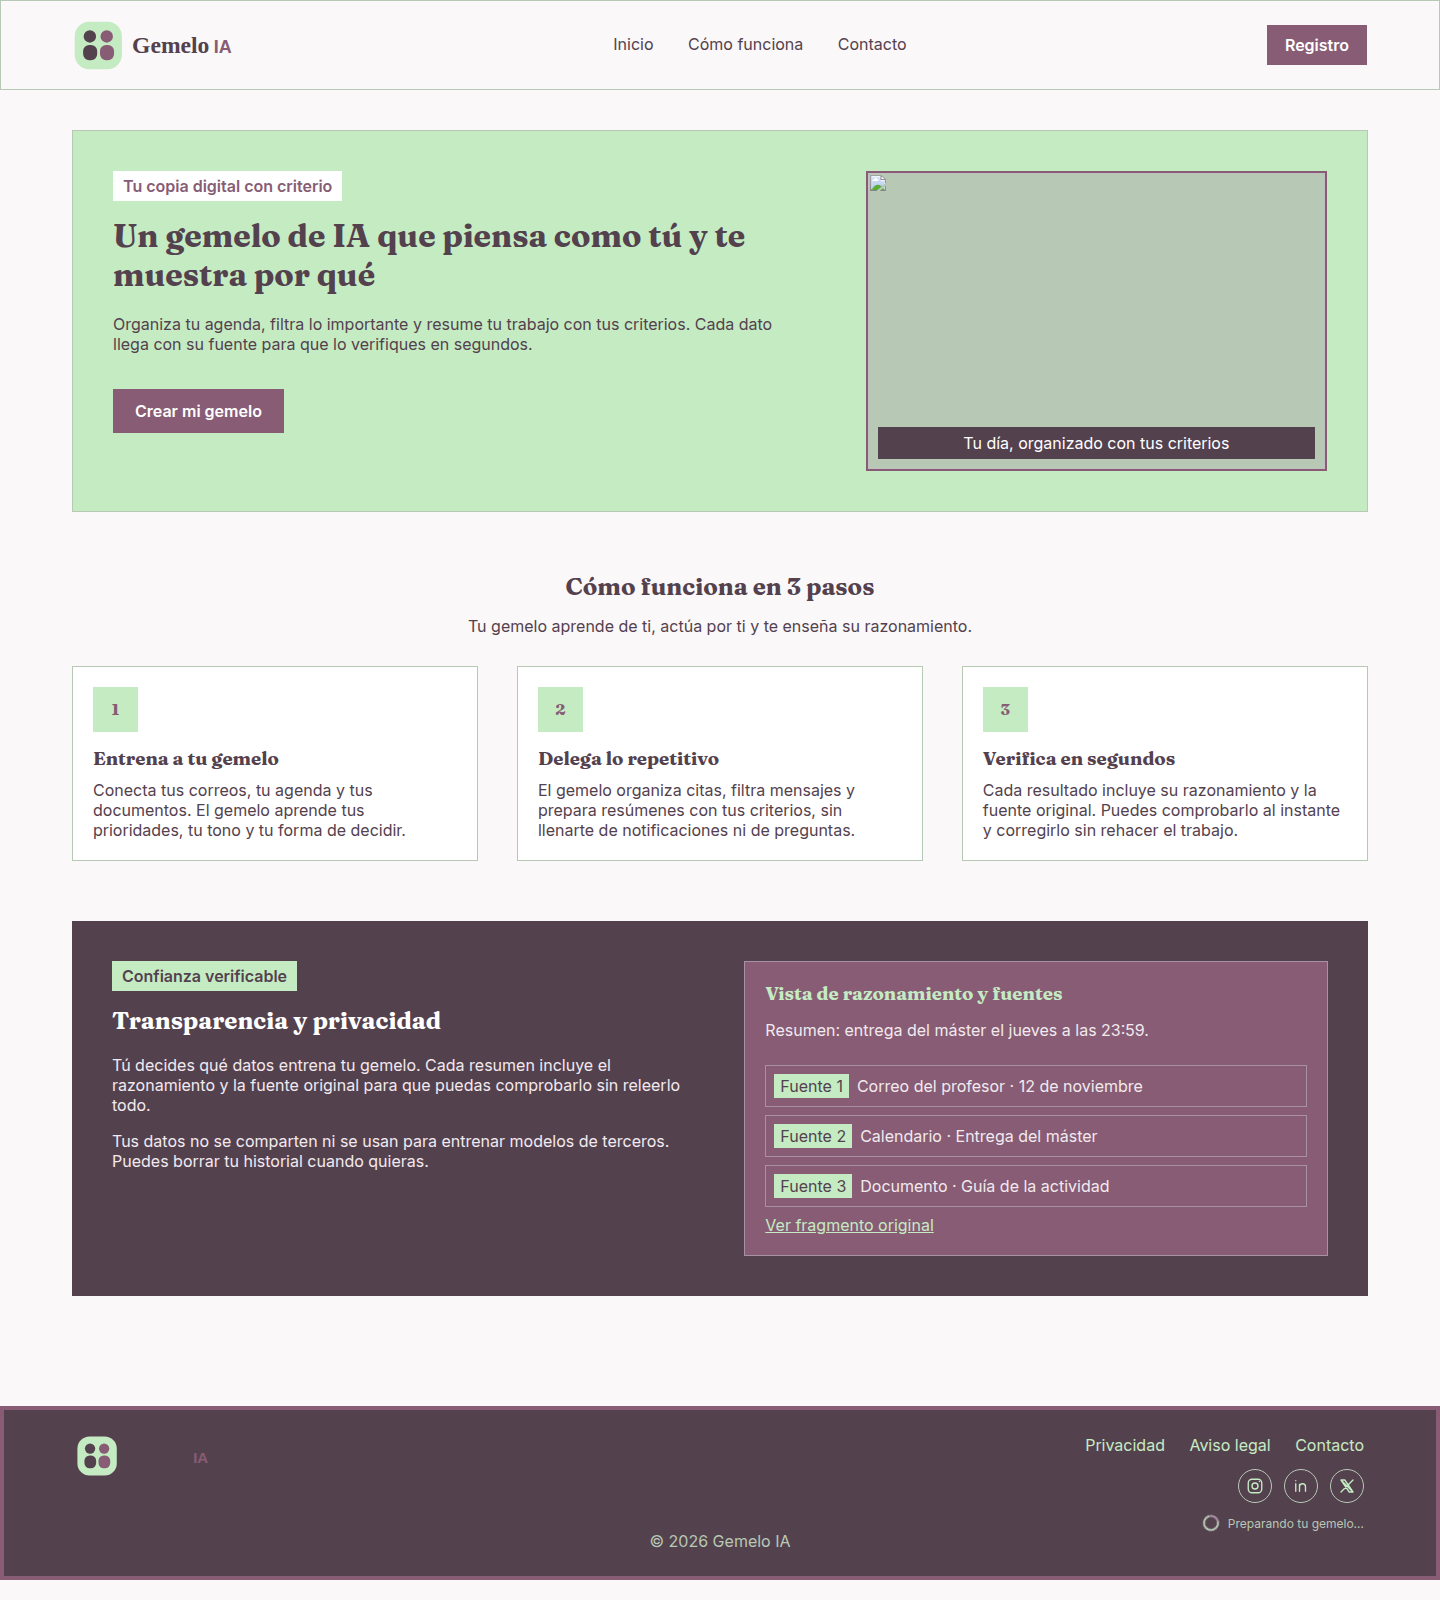
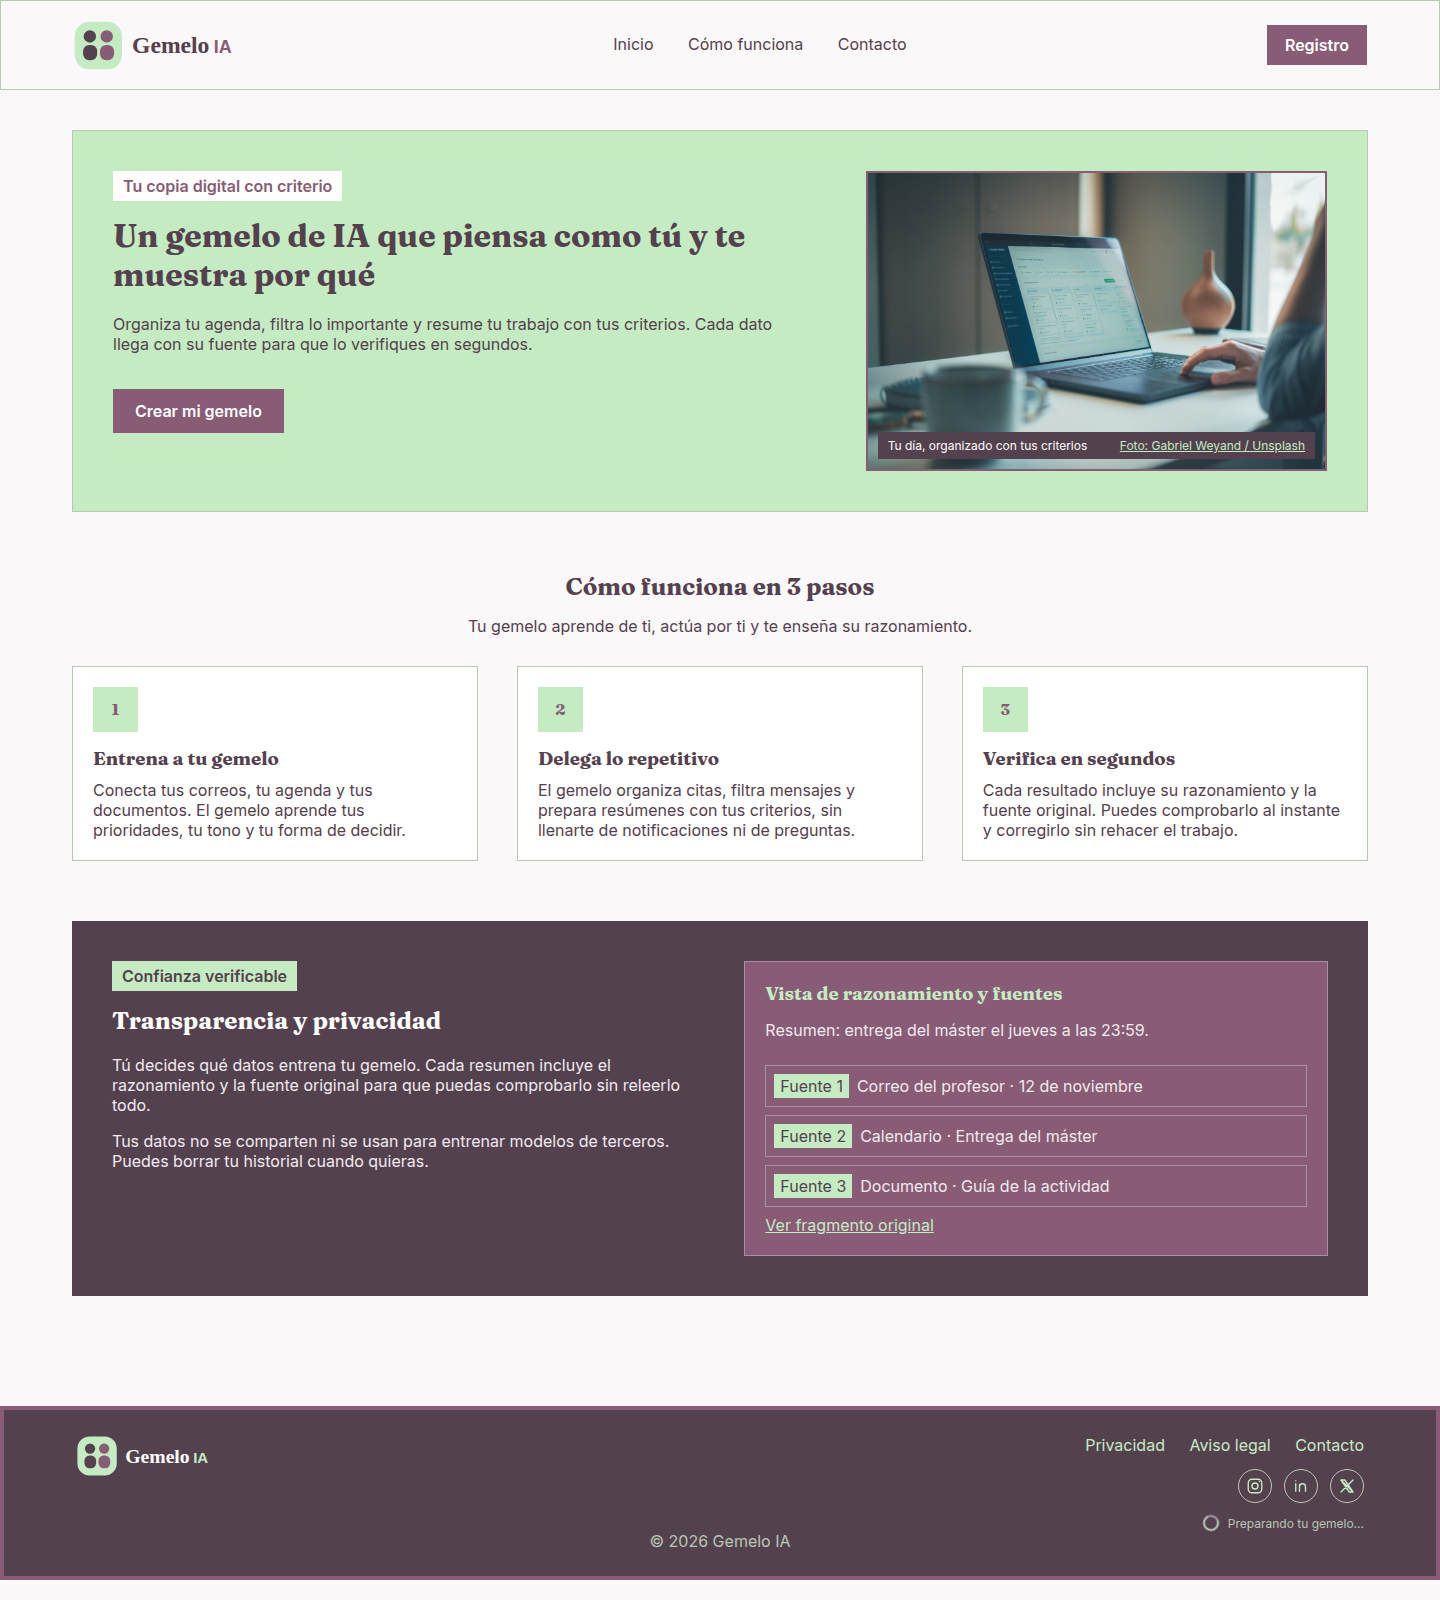
Fix hero and footer images

Changed region(s): [[0.5938, 0.0938, 0.9375, 0.3125], [0.0938, 0.9062, 0.125, 0.9375]]

diff --git a/gemelo-ia/index.html b/gemelo-ia/index.html
@@ -30,8 +30,11 @@
         <a class="boton boton-principal" href="#como-funciona"><strong>Crear mi gemelo</strong></a>
       </header>
       <figure class="imagen-portada">
-        <img src="assets/foto-hero.jpg" alt="" class="foto-hero">
-        <figcaption class="leyenda-figura">Tu día, organizado con tus criterios</figcaption>
+        <img src="assets/foto-hero.jpg" alt="Persona trabajando frente a un ordenador portátil" class="foto-hero">
+        <figcaption class="leyenda-figura">
+          <span>Tu día, organizado con tus criterios</span>
+          <a href="https://unsplash.com/photos/person-working-on-a-laptop-at-a-desk-pPpUCaudT5Q">Foto: Gabriel Weyand / Unsplash</a>
+        </figcaption>
       </figure>
     </section>
 
@@ -74,7 +77,7 @@
   </main>
 
   <footer class="pie-pagina" id="contacto">
-    <a class="logo logo-pie" href="#inicio" aria-label="Gemelo IA, inicio"><img src="assets/logo.svg" alt="Gemelo IA" width="150" height="43"></a>
+    <a class="logo logo-pie" href="#inicio" aria-label="Gemelo IA, inicio"><img src="assets/logo-claro.svg" alt="Gemelo IA" width="150" height="43"></a>
     <nav class="navegacion-pie">
       <a href="#transparencia">Privacidad</a>
       <a href="#transparencia">Aviso legal</a>

diff --git a/gemelo-ia/css/estilos.css b/gemelo-ia/css/estilos.css
@@ -172,11 +172,20 @@ a {
   right: 10px;
   bottom: 10px;
   left: 10px;
+  display: flex;
+  align-items: center;
+  justify-content: space-between;
+  gap: 8px;
   margin: 0;
   padding: 6px 10px;
   background-color: var(--ciruela);
   color: var(--blanco);
-  text-align: center;
+  font-size: 12px;
+}
+
+.leyenda-figura a {
+  color: var(--verde-menta);
+  white-space: nowrap;
 }
 
 .como-funciona {
@@ -384,6 +393,12 @@ article.paso:hover {
 
   .imagen-portada {
     height: 180px;
+  }
+
+  .leyenda-figura {
+    align-items: flex-start;
+    flex-direction: column;
+    gap: 2px;
   }
 
 
